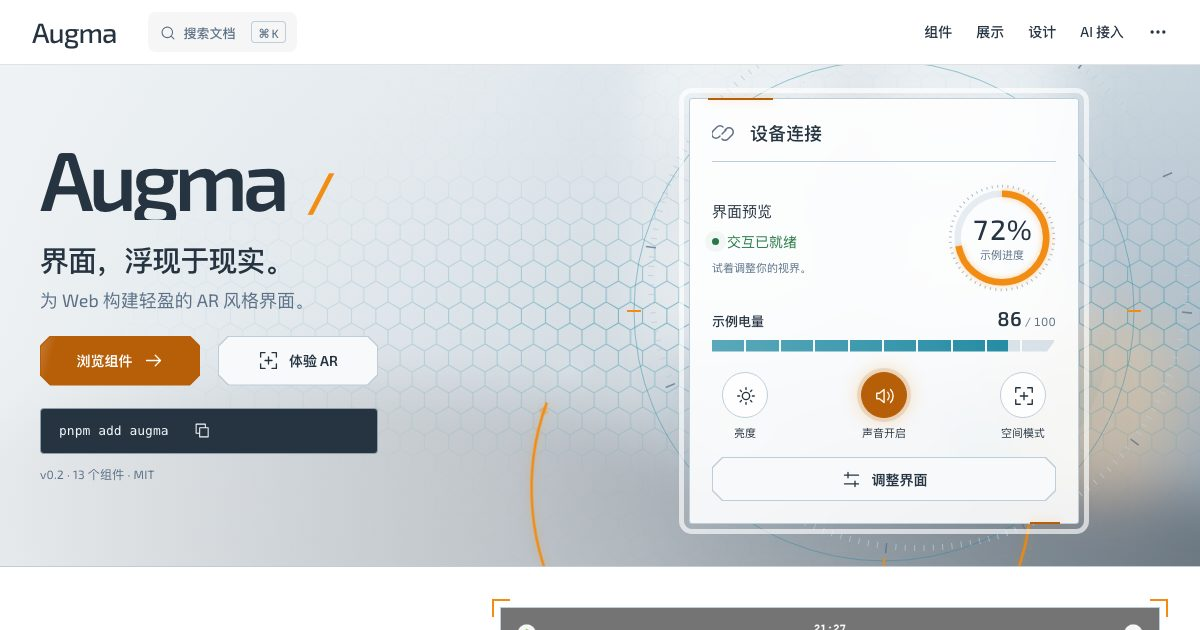
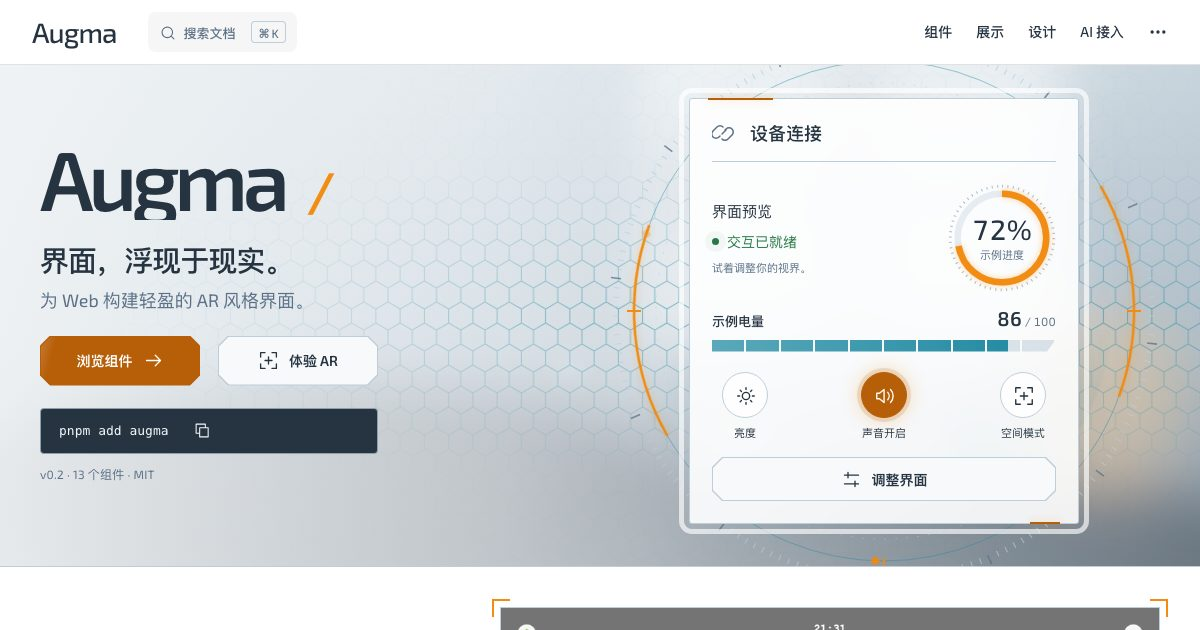
fix(site): spin HUD orbit layers around the ring center
The orbit SVG used viewBox="-280 -280 560 560" with
transform-box: view-box and transform-origin: 50% 50%. Engines resolve
those percentages from the user-space origin, so every spinning layer
pivoted on (280, 280), the bottom-right corner, and drifted off the
static ring (139px at 3s in Chromium, Firefox and WebKit).

Start the viewBox at 0 0 and draw around (280, 280) so the pivot is the
ring center. A browser test pauses the layers mid-spin and checks they
stay concentric. The README and Open Graph stills, captured at 3s, are
regenerated without the drift.

diff --git a/apps/site/.vitepress/theme/components/HudOrbit.vue b/apps/site/.vitepress/theme/components/HudOrbit.vue
@@ -1,36 +1,38 @@
 <script setup lang="ts">
 // Decorative HUD rings behind the device preview. Pure SVG + CSS: no state, no timers.
 // Dash periods divide each circumference evenly: r=268 → 180 marks, r=270 → 12 majors, r=250 → two 50° arcs.
+// The viewBox starts at 0 so each layer's `transform-origin: 50% 50%` (view-box) is the ring
+// center: engines resolve view-box percentages from the user-space origin, not from min-x/min-y.
 const blips = [212, 318, 64]
 </script>
 
 <template>
   <div class="hud-orbit" aria-hidden="true">
     <div class="hud-orbit-sweep" />
-    <svg viewBox="-280 -280 560 560">
+    <svg viewBox="0 0 560 560">
       <g class="hud-orbit-layer hud-orbit-scale" style="--i: 0">
-        <circle r="268" stroke-width="6" stroke-dasharray="1 8.355" />
-        <circle r="270" stroke-width="10" stroke-dasharray="1.6 139.77" class="major" />
+        <circle cx="280" cy="280" r="268" stroke-width="6" stroke-dasharray="1 8.355" />
+        <circle cx="280" cy="280" r="270" stroke-width="10" stroke-dasharray="1.6 139.77" class="major" />
       </g>
       <g class="hud-orbit-layer hud-orbit-ring" style="--i: 1">
-        <circle r="250" />
-        <path class="marks" d="M-257 0h14M243 0h14M0 -257v10M0 247v10" />
+        <circle cx="280" cy="280" r="250" />
+        <path class="marks" d="M23 280h14M523 280h14M280 23v10M280 527v10" />
       </g>
       <g class="hud-orbit-layer hud-orbit-arcs" style="--i: 2">
-        <circle r="250" stroke-dasharray="218.17 567.23" />
+        <circle cx="280" cy="280" r="250" stroke-dasharray="218.17 567.23" />
       </g>
       <g class="hud-orbit-layer hud-orbit-dash" style="--i: 3">
-        <circle r="228" stroke-dasharray="2 9" />
+        <circle cx="280" cy="280" r="228" stroke-dasharray="2 9" />
       </g>
       <g class="hud-orbit-layer hud-orbit-blips" style="--i: 4">
         <rect
           v-for="(angle, index) in blips"
           :key="angle"
-          x="-3.5"
-          y="-253.5"
+          x="276.5"
+          y="26.5"
           width="7"
           height="7"
-          :transform="`rotate(${angle}) rotate(45 0 -250)`"
+          :transform="`rotate(${angle} 280 280) rotate(45 280 30)`"
           :style="{ '--blip': index }"
         />
       </g>

diff --git a/tests/browser/site.test.ts b/tests/browser/site.test.ts
@@ -292,3 +292,22 @@ test('home shows install command, release line and AR demo entry', async ({ page
   await expect(page.locator('.device-stage')).toHaveCount(0)
   await expect(page.getByRole('heading', { name: '从一个按钮，到一整个视界' })).toHaveCount(0)
 })
+
+test('hero HUD rings stay concentric while they spin', async ({ page }) => {
+  await page.goto('/')
+  const offsets = await page.evaluate(() => {
+    // Freeze every layer mid-spin; a wrong transform-origin swings the rings off center.
+    for (const animation of document.querySelector('.hud-orbit')!.getAnimations({ subtree: true })) {
+      animation.pause()
+      animation.currentTime = 9000
+    }
+    const svg = document.querySelector('.hud-orbit svg')!.getBoundingClientRect()
+    return [...document.querySelectorAll('.hud-orbit-layer circle')].map((circle) => {
+      const box = circle.getBoundingClientRect()
+      return Math.hypot(box.x + box.width / 2 - svg.x - svg.width / 2, box.y + box.height / 2 - svg.y - svg.height / 2)
+    })
+  })
+  expect(offsets).toHaveLength(5)
+  for (const offset of offsets)
+    expect(offset).toBeLessThan(1)
+})
